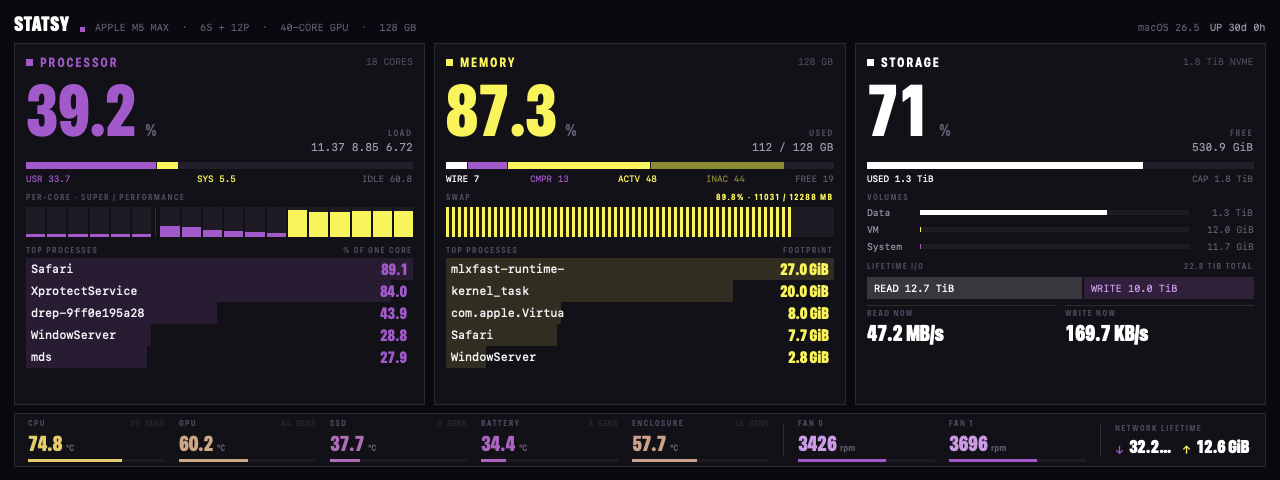
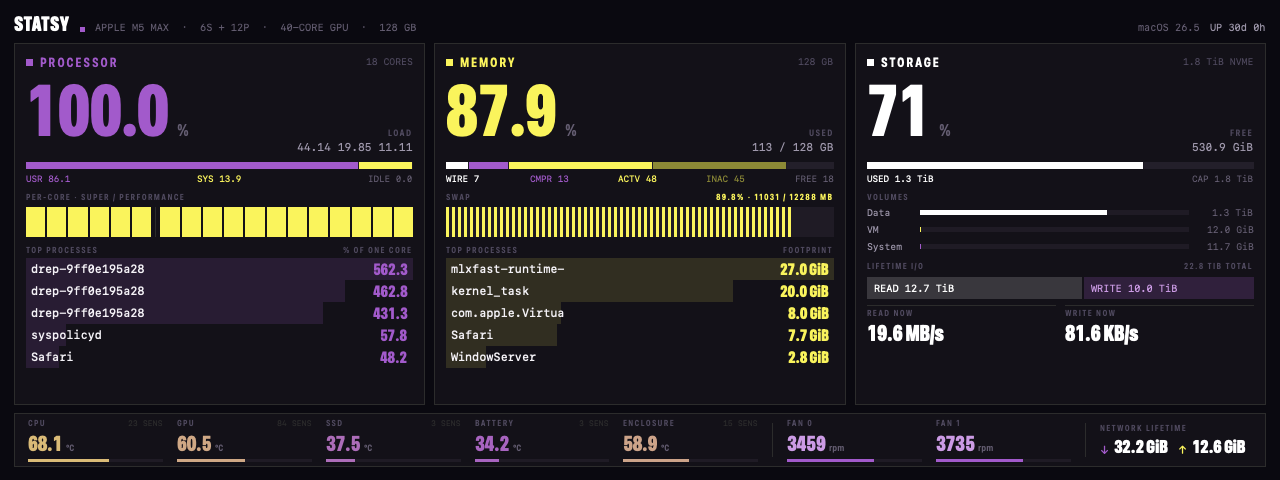
docs: Use a genuinely loaded screenshot for the second README image
The "under load" capture showed 39% CPU with a mostly dark core grid, which
read as a near-duplicate of the idle shot above it. Replaced with the capture
at 100% CPU: all 18 cores saturated, load average 44, three processes over
400%. Also cut the repeated 1280x480 between the opening line and the
paragraph under the first image.

Claude-Session: https://claude.ai/code/session_011xX8DvYuguuFMjiPKehmkd

diff --git a/README.md b/README.md
@@ -1,18 +1,17 @@
 # Statsy
 
-A system monitor for a small secondary display. It fills a 1280x480 panel with
-CPU, memory and storage, each above its five heaviest processes, over a strip of
-temperature and fan readings.
+A system monitor for a small secondary display: CPU, memory and storage, each
+above its five heaviest processes, over a strip of temperature and fan readings.
 
-![Statsy running on a 7-inch panel](docs/images/panel.png)
+![Statsy on a mostly idle machine](docs/images/panel.png)
 
-The target is a 7-inch 1280x480 panel at 1:1 scale with no HiDPI backing. At
-roughly 195 PPI that makes text render at about 56% of its usual physical size,
-which is why the type is larger than it would be in a normal app.
+It targets a 7-inch 1280x480 panel running at 1:1 scale with no HiDPI backing.
+At roughly 195 PPI text renders at about 56% of its usual physical size, which
+is why the type is larger than it would be in a normal app.
 
-Under load, with the core grid saturated and three-digit process figures:
+The same panel with all 18 cores saturated and a load average of 44:
 
-![Statsy under load](docs/images/panel-under-load.png)
+![Statsy with the machine under full load](docs/images/panel-under-load.png)
 
 ## Running
 
